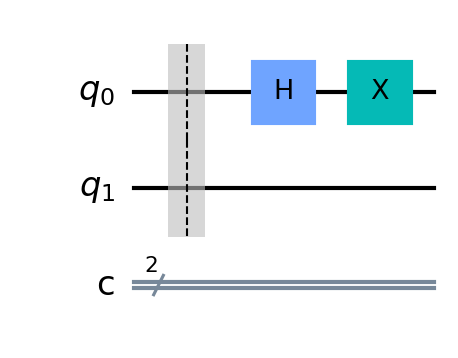
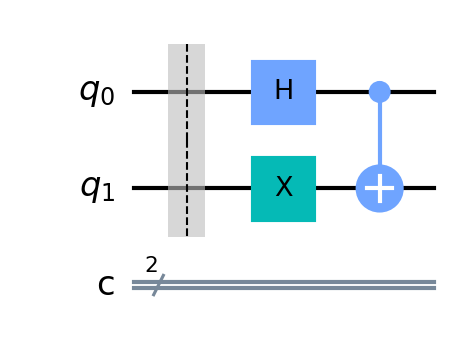
added yes/no slide

diff --git a/main.py b/main.py
@@ -2,12 +2,11 @@ import time
 import pygame
 from comparison import *
 
+# circuit = QuantumCircuit(2, 2)
+# circuit.barrier()
 
-circuit=QuantumCircuit(2,2)
-circuit.barrier()
-
-display_width = 765
-display_height = 600
+display_width = 1000
+display_height = 700
 
 WHITE = (255, 255, 255)
 RED = (255, 0, 0)
@@ -83,18 +82,22 @@ def starting_screen():
                 raise SystemExit
         if pygame.mouse.get_pressed()[0]:
             if play_button.check_click(pygame.mouse.get_pos()):
+                return True
                 break
             if exit_button.check_click(pygame.mouse.get_pos()):
+                return False
                 break
 
-def gate_choose():
-    screen.blit(bg, (0, 0))
-    circuit.draw('mpl',filename='gifs/currentcircuit.png')
-    img=pygame.image.load('gifs/currentcircuit.png') 
-    img = pygame.transform.scale(img, (200, 200))
 
-    screen.blit(img,(300,20))
-    pygame.display.flip() # update the display
+def gate_choose():
+    screen.fill((0, 0, 0))
+    screen.blit(bg, (0, 0))
+    circuit.draw('mpl', filename='gifs/currentcircuit.png')
+    img = pygame.image.load('gifs/currentcircuit.png')
+    img = pygame.transform.scale(img, (400, 200))
+
+    screen.blit(img, ((display_width // 2 - img.get_width() // 2, 20)))
+    pygame.display.update()  # update the display
     game_title = font.render('Which gate would you like to choose?', True, RED)
 
     screen.blit(game_title, (display_width // 2 - game_title.get_width() // 2, 250))
@@ -154,9 +157,10 @@ def gate_choose():
                 return "DONE"
                 break
 
+
 def qubit_choose():
     screen.blit(bg, (0, 0))
-    game_title = font.render('Which gate would you like to choose?', True, RED)
+    game_title = font.render('Which qubit would you like to apply that gate on?', True, RED)
 
     screen.blit(game_title, (display_width // 2 - game_title.get_width() // 2, 250))
     zero_button = Button('0', WHITE, None, 350, centered_x=True)
@@ -194,42 +198,142 @@ def qubit_choose():
                 return '1'
                 break
 
-screen = pygame.display.set_mode((display_width, display_height))
-bg = pygame.image.load(bg_location)
-font_addr = pygame.font.get_default_font()
-font = pygame.font.Font(font_addr, 36)
 
-starting_screen()
-choice=[]
+def yes_screen():
+    screen.blit(bg, (0, 0))
+    game_title = font.render('You Got It! Congratulations!', True, RED)
+    game_title2 = font.render('Now you successfully enter the field of ...', True, RED)
+
+    screen.blit(game_title, (display_width // 2 - game_title.get_width() // 2, 150))
+    screen.blit(game_title2, (display_width // 2 - game_title2.get_width() // 2, 250))
+
+    continue_button = Button('CONTINUE', WHITE, None, 350, centered_x=True)
+    exit_button = Button('EXIT', WHITE, None, 400, centered_x=True)
+
+    continue_button.display()
+    exit_button.display()
+
+    pygame.display.update()
+    while True:
+
+        if continue_button.check_click(pygame.mouse.get_pos()):
+            continue_button = Button('CONTINUE', RED, None, 350, centered_x=True)
+        else:
+            continue_button = Button('CONTINUE', WHITE, None, 350, centered_x=True)
+
+        if exit_button.check_click(pygame.mouse.get_pos()):
+            exit_button = Button('EXIT', RED, None, 400, centered_x=True)
+        else:
+            exit_button = Button('EXIT', WHITE, None, 400, centered_x=True)
+
+        continue_button.display()
+        exit_button.display()
+        pygame.display.update()
+
+        for event in pygame.event.get():
+            if event.type == pygame.QUIT:
+                pygame.quit()
+                raise SystemExit
+        if pygame.mouse.get_pressed()[0]:
+            if continue_button.check_click(pygame.mouse.get_pos()):
+                return 'continue'
+                break
+            if exit_button.check_click(pygame.mouse.get_pos()):
+                return 'exit'
+                break
+
+
+def no_screen():
+    screen.blit(bg, (0, 0))
+    game_title = font.render('Unfortunately...', True, RED)
+    game_title2 = font.render('Now you will enter the field of ...', True, RED)
+
+    screen.blit(game_title, (display_width // 2 - game_title.get_width() // 2, 150))
+    screen.blit(game_title2, (display_width // 2 - game_title2.get_width() // 2, 250))
+
+    continue_button = Button('CONTINUE', WHITE, None, 350, centered_x=True)
+    exit_button = Button('EXIT', WHITE, None, 400, centered_x=True)
+
+    continue_button.display()
+    exit_button.display()
+
+    pygame.display.update()
+    while True:
+
+        if continue_button.check_click(pygame.mouse.get_pos()):
+            continue_button = Button('CONTINUE', RED, None, 350, centered_x=True)
+        else:
+            continue_button = Button('CONTINUE', WHITE, None, 350, centered_x=True)
+
+        if exit_button.check_click(pygame.mouse.get_pos()):
+            exit_button = Button('EXIT', RED, None, 400, centered_x=True)
+        else:
+            exit_button = Button('EXIT', WHITE, None, 400, centered_x=True)
+
+        continue_button.display()
+        exit_button.display()
+        pygame.display.update()
+
+        for event in pygame.event.get():
+            if event.type == pygame.QUIT:
+                pygame.quit()
+                raise SystemExit
+        if pygame.mouse.get_pressed()[0]:
+            if continue_button.check_click(pygame.mouse.get_pos()):
+                return 'continue'
+                break
+            if exit_button.check_click(pygame.mouse.get_pos()):
+                return 'exit'
+                break
+
 
 while True:
-    gate_chosen=gate_choose()
+    circuit = QuantumCircuit(2, 2)
+    circuit.barrier()
+
+    screen = pygame.display.set_mode((display_width, display_height))
+    bg = pygame.image.load(bg_location)
+    bg = pygame.transform.scale(bg, (1000, 700))
+    font_addr = pygame.font.get_default_font()
+    font = pygame.font.Font(font_addr, 36)
+
+    playornot = starting_screen()
     time.sleep(0.5)
-    if gate_chosen=='C01':
-        choice.append(gate_chosen)
-        circuit.cnot(0,1)
-        continue
-    if gate_chosen[0]=='H':
-        qubit_chosen=qubit_choose()
-        choice.append(gate_chosen+qubit_chosen)
-        circuit.h(int(qubit_chosen))
-        continue
-    if gate_chosen[0]=='X':
-        qubit_chosen=qubit_choose()
-        choice.append(gate_chosen+qubit_chosen)
-        circuit.x(int(qubit_chosen))
-        continue
-    
-    if gate_chosen=='DONE':
-        value=comparison(choice)
-        if value:
-            print('Go to yes screen')
-        else:
-            print('Go to no screen')
+    if playornot:
+        choice = []
+
+        while True:
+            gate_chosen = gate_choose()
+            time.sleep(0.5)
+            if gate_chosen == 'C01':
+                choice.append(gate_chosen)
+                circuit.cnot(0, 1)
+                continue
+            if gate_chosen[0] == 'H':
+                qubit_chosen = qubit_choose()
+                choice.append(gate_chosen + qubit_chosen)
+                circuit.h(int(qubit_chosen))
+                continue
+            if gate_chosen[0] == 'X':
+                qubit_chosen = qubit_choose()
+                choice.append(gate_chosen + qubit_chosen)
+                circuit.x(int(qubit_chosen))
+                continue
+
+            if gate_chosen == 'DONE':
+                value = comparison(choice)
+                if value:
+                    print('Go to yes screen')
+                    continueornot = yes_screen()
+                    time.sleep(0.5)
+                    break
+                else:
+                    print('Go to no screen')
+                    continueornot = no_screen()
+                    time.sleep(0.5)
+                    break
+            time.sleep(0.5)
+        if continueornot == 'exit':
+            break
+    else:
         break
-
-    time.sleep(0.5)
-
-    print(choice,a)
-
-
